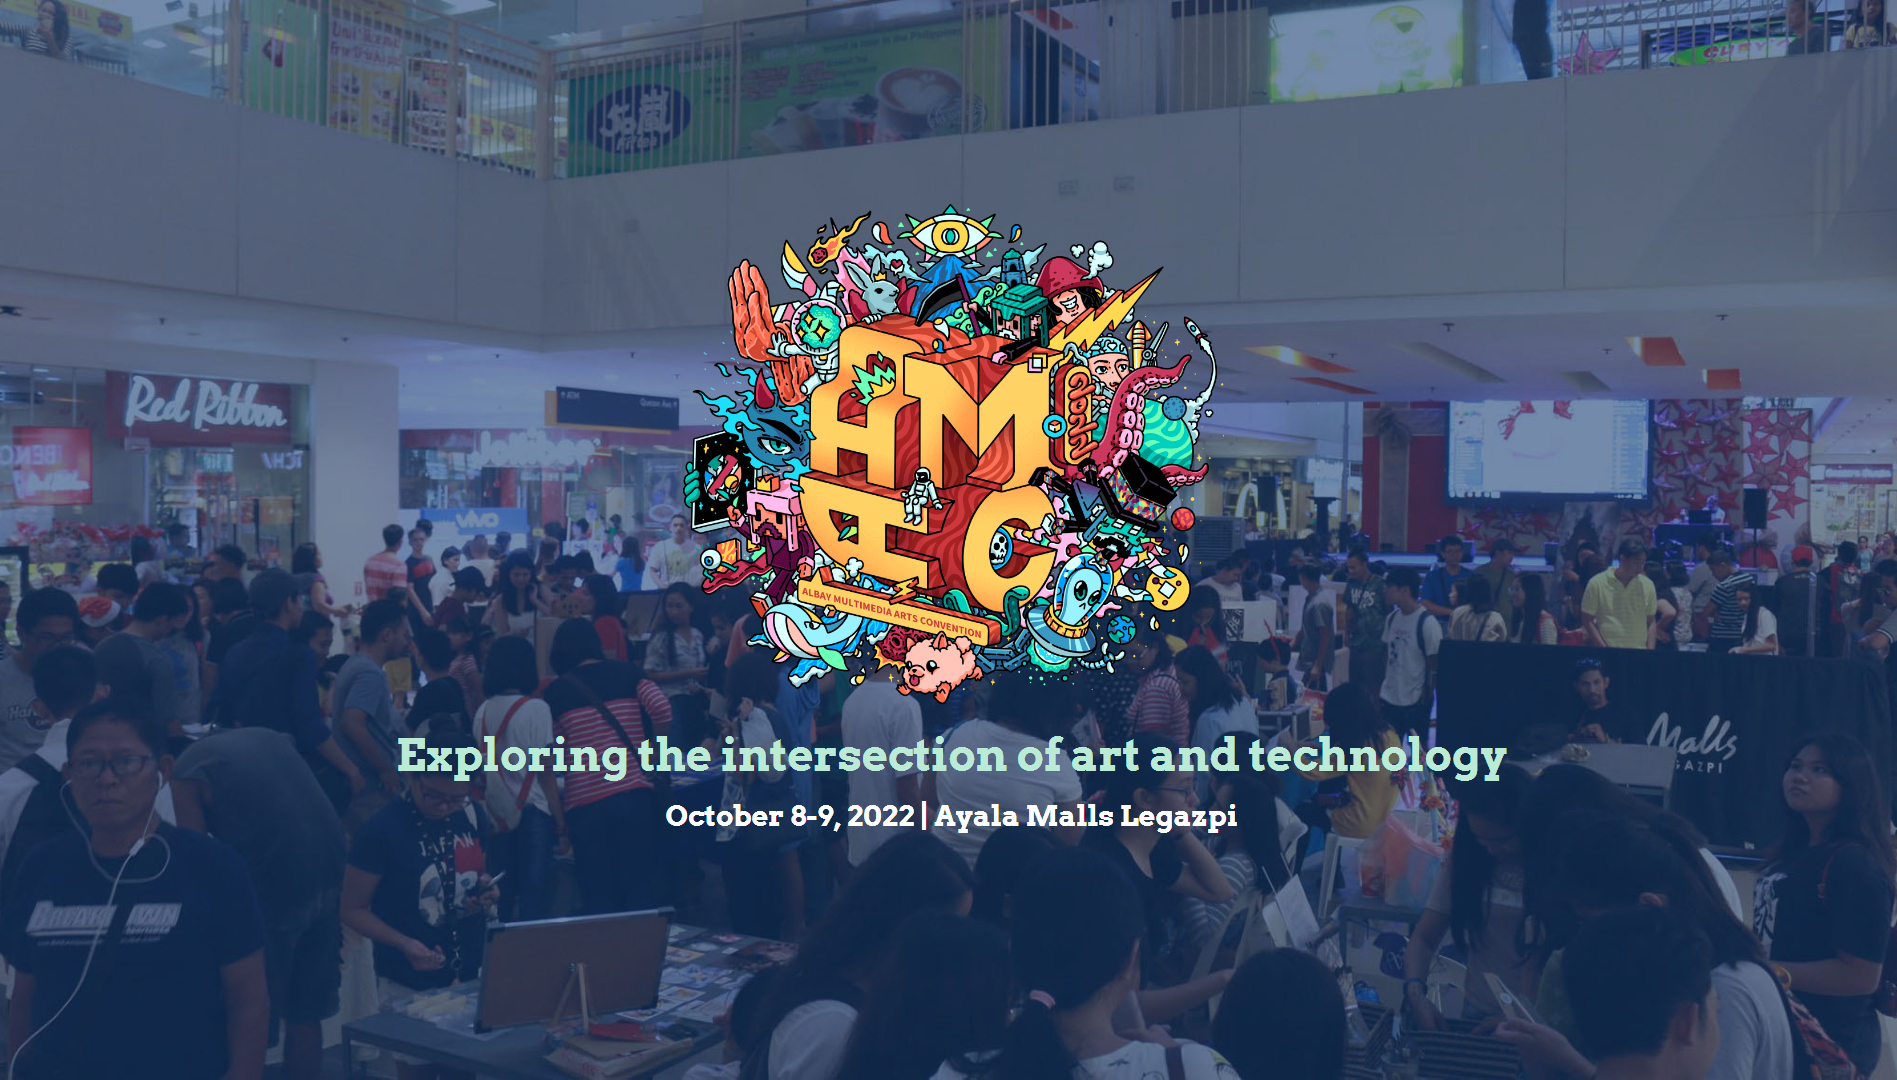
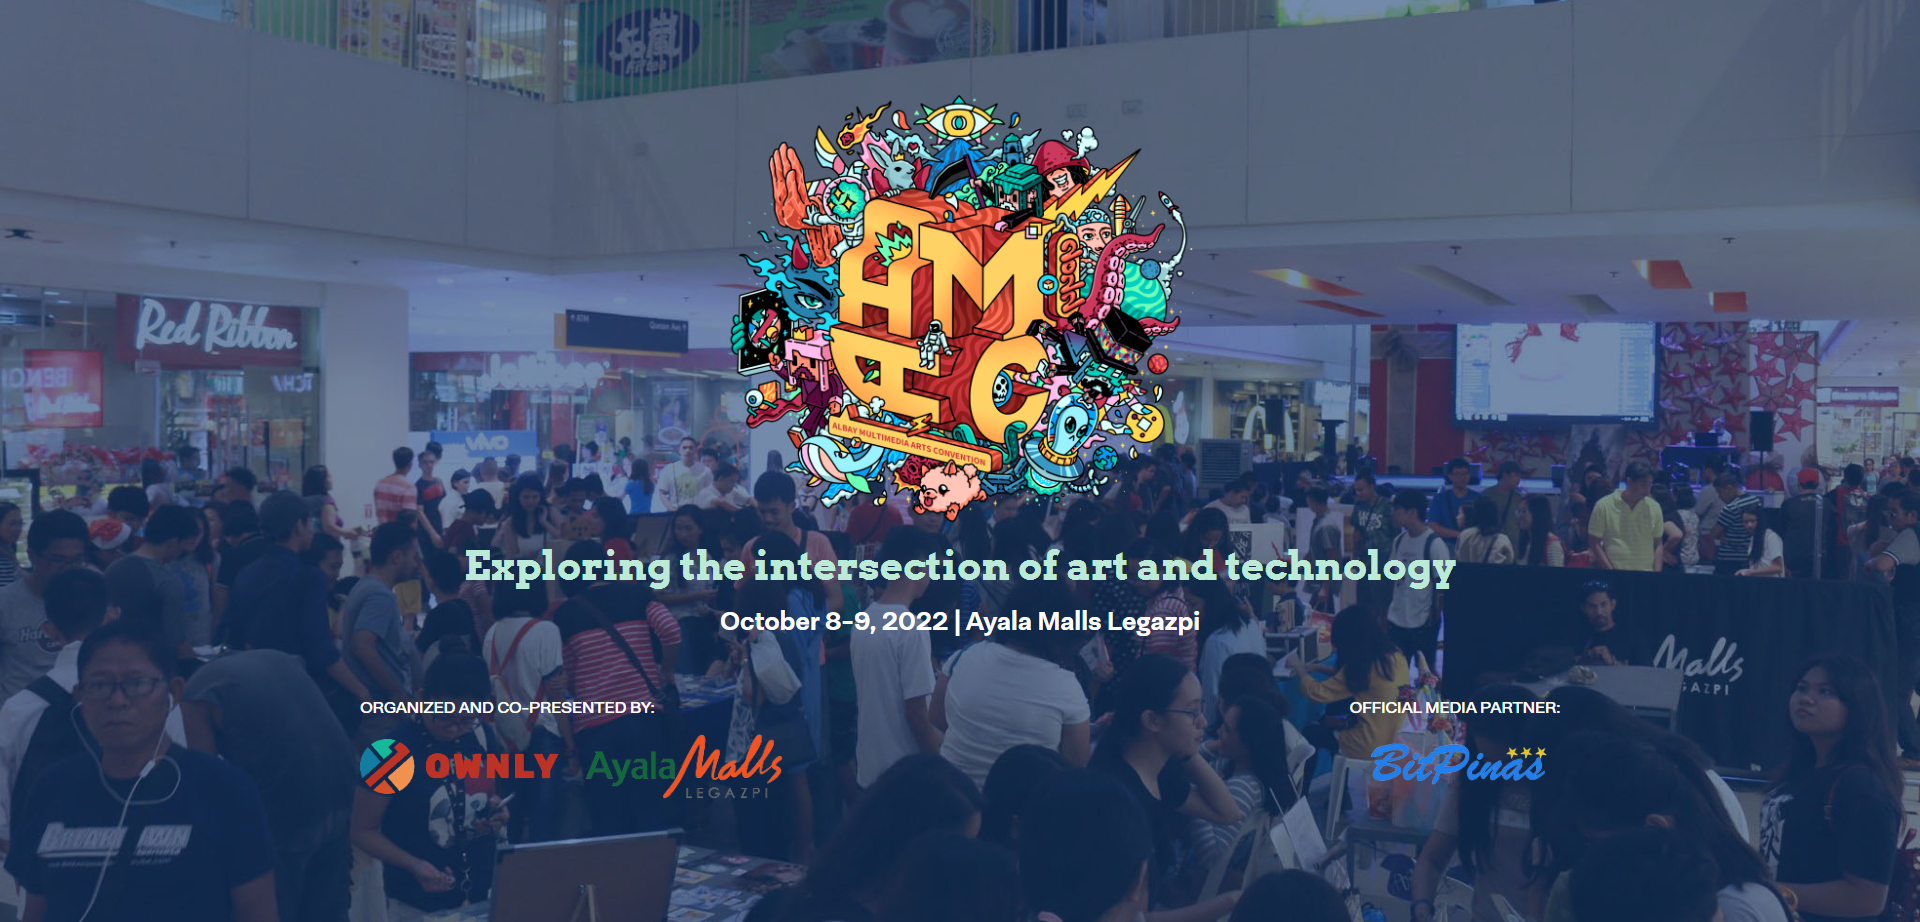
Adjust design and change OG image

diff --git a/src/components/Banner/Banner.js b/src/components/Banner/Banner.js
@@ -21,28 +21,30 @@ export default function Banner({ showRegister }) {
                     <button onClick={showRegister} className="def btn btn-custom-1 px-5 mb-3 banner-btn">BUY TICKETS</button>
                     <p className="font-size-80 font-size-md-100 neo-regular-italic text-center text-white mb-0 banner-text">Note: Only the Art Talks is ticketed, all activities is open and free for the community</p>
                 </div>
-            </div>
-            <div className="banner-sponsors mt-4 px-5 d-flex justify-content-between align-items-start flex-wrap">
-                <div className="banner-sponsor-1 mb-4 mb-md-0">
-                    <p className="font-size-80 font-size-md-100 neo-regular text-center text-md-start text-white mb-3 banner-sponsor-1-text">ORGANIZED AND CO-PRESENTED BY:</p>
-                    <div className="d-flex justify-content-center justify-content-md-start align-items-center flex-wrap">
-                        <div className="banner-sponsor-1-img-wrap me-4 mb-3 mb-md-0">
-                            <img className="w-100" src={ownly} alt="Ownly Logo" />
+
+                <div className="banner-sponsors mt-4 px-5 d-flex justify-content-center justify-content-lg-between align-items-start flex-wrap w-100">
+                    <div className="banner-sponsor-1 mb-2 mb-lg-0">
+                        <p className="font-size-80 font-size-md-100 neo-regular text-center text-lg-start text-white mb-3 banner-sponsor-1-text">ORGANIZED AND CO-PRESENTED BY:</p>
+                        <div className="d-flex justify-content-center justify-content-lg-start align-items-center flex-wrap">
+                            <div className="banner-sponsor-1-img-wrap me-4 mb-3 mb-lg-0">
+                                <img className="w-100" src={ownly} alt="Ownly Logo" />
+                            </div>
+                            <div className="banner-sponsor-1-img-wrap mb-3 mb-lg-0">
+                                <img className="w-100" src={ayala} alt="Ayala Logo" />
+                            </div>
                         </div>
-                        <div className="banner-sponsor-1-img-wrap mb-3 mb-md-0">
-                            <img className="w-100" src={ayala} alt="Ayala Logo" />
+                    </div>
+                    <div className="banner-sponsor-2">
+                        <p className="font-size-80 font-size-md-100 neo-regular text-center text-lg-end text-white mb-3 banner-sponsor-2-text">OFFICIAL MEDIA PARTNER:</p>
+                        <div className="d-flex justify-content-center justify-content-lg-end align-items-center">
+                            <div className="banner-sponsor-2-img-wrap">
+                                <img className="w-100" src={bitpinas} alt="BitPinas Logo" />
+                            </div>
                         </div>
                     </div>
                 </div>
-                <div className="banner-sponsor-2">
-                    <p className="font-size-80 font-size-md-100 neo-regular text-center text-md-end text-white mb-3 banner-sponsor-2-text">OFFICIAL MEDIA PARTNER:</p>
-                    <div className="d-flex justify-content-center justify-content-md-end align-items-center">
-                        <div className="banner-sponsor-2-img-wrap">
-                            <img className="w-100" src={bitpinas} alt="BitPinas Logo" />
-                        </div>
-                    </div>
-                </div>
             </div>
+            
         </section>
     )
 }

diff --git a/src/media-queries.css b/src/media-queries.css
@@ -114,13 +114,6 @@
         margin-right: auto;
     }
 
-    .banner-sponsor-1,
-    .banner-sponsor-2 {
-        width: 60% !important;
-        margin-left: auto;
-        margin-right: auto;
-    }
-
     .banner-sponsor-1-img-wrap,
     .banner-sponsor-2-img-wrap {
         width: 150px !important;
